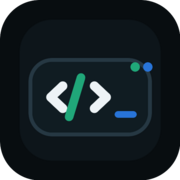
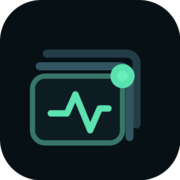
feat: unify brand and surface agent outputs

diff --git a/server/src/index.ts b/server/src/index.ts
@@ -428,7 +428,7 @@ async function lightAppState() {
   const geminiStatus = cachedProviderStatusSnapshot('gemini', geminiStatusCache.value);
   const claudeStatus = cachedProviderStatusSnapshot('claude', claudeStatusCache.value);
   const antigravityStatus = cachedProviderStatusSnapshot('antigravity', antigravityStatusCache.value);
-  const providerStatuses = await unifiedProviderStatuses(false);
+  const providerStatuses = cachedUnifiedProviderStatusesSnapshot();
   return {
     authed:true,
     authenticated:true,
@@ -681,7 +681,7 @@ app.get('/api/settings', { preHandler: ensureAuth }, async (req:any) => {
     light ? Promise.resolve(cachedProviderStatusSnapshot('antigravity', antigravityStatusCache.value)) : cachedAntigravityStatus(force),
     light ? Promise.resolve(cachedProviderStatusSnapshot('gemini', geminiStatusCache.value)) : cachedGeminiStatus(force),
     light || !USE_AGENT_RUNTIME ? Promise.resolve({ error: light ? 'not refreshed' : 'persistent runtime disabled' }) : runtime.geminiStatus().catch((e:any)=>({ error:e?.message || String(e) })),
-    unifiedProviderStatuses(force && !light),
+    light ? Promise.resolve(cachedUnifiedProviderStatusesSnapshot()) : unifiedProviderStatuses(force),
     syncAntigravityProfilesFromDisk().catch(()=>{}),
   ]);
   return { settings, profiles, pendingProfiles, activeProfile, claudeProfiles, activeClaudeProfile, geminiProfiles, geminiPendingProfiles, activeGeminiProfile, antigravityProfiles, activeAntigravityProfile, codex: codexStatus, claude: claudeStatus, gemini:{...geminiStatus,runtime:geminiRuntime}, antigravity: antigravityStatus, providers: providerStatusArray(providerStatuses), providerStatus: providerStatuses, providerDefinitions: PROVIDER_ORDER.map(id => PROVIDER_DEFINITIONS[id]), providerInstallers:providerInstallerSummaries(), providerInstallJobs:providerInstallJobSummaries() };
@@ -1227,7 +1227,7 @@ app.get('/api/projects', { preHandler: ensureAuth }, async (req:any) => ({ roots
 app.get('/api/sessions', { preHandler: ensureAuth }, async (req:any) => ({ sessions: await listIndexedThreads(req.query?.archived === '1') }));
 app.get('/api/dashboard', { preHandler: ensureAuth }, async (req:any) => {
   const archived = req.query?.archived === '1';
-  const [sessions,control] = await Promise.all([listIndexedThreads(archived), lightAppState()]);
+  const [sessions,control,artifacts] = await Promise.all([listIndexedThreads(archived), lightAppState(), dashboardArtifacts()]);
   const now = Date.now();
   const dayMs = 24 * 60 * 60 * 1000;
   const startOfToday = new Date(new Date(now).toDateString()).getTime();
@@ -1251,6 +1251,7 @@ app.get('/api/dashboard', { preHandler: ensureAuth }, async (req:any) => {
     generatedAt:now,
     archived,
     control,
+    artifacts,
     metrics:{
       total:sessions.length,
       running:sessions.filter(session => runningStates.has(String(session.status))).length,
@@ -1263,6 +1264,16 @@ app.get('/api/dashboard', { preHandler: ensureAuth }, async (req:any) => {
     sessions,
   };
 });
+async function dashboardArtifacts(){
+  const sql='SELECT id,session_id,name,mime,size,created_at,modified_at FROM artifacts ORDER BY COALESCE(modified_at,created_at) DESC LIMIT 12';
+  const [webRows,runtimeRows,webCount,runtimeCount]=await Promise.all([db.all(sql).catch(()=>[]),runtimeDb.all(sql).catch(()=>[]),db.get('SELECT COUNT(*) count FROM artifacts').catch(()=>null),runtimeDb.get('SELECT COUNT(*) count FROM artifacts').catch(()=>null)]);
+  const byId=new Map<string,any>();
+  for(const row of [...runtimeRows,...webRows]) if(!byId.has(String(row.id))) byId.set(String(row.id),row);
+  const items=[...byId.values()].sort((a,b)=>Number(b.modified_at||b.created_at||0)-Number(a.modified_at||a.created_at||0)).slice(0,8).map(row=>({
+    id:String(row.id),sessionId:String(row.session_id),name:String(row.name),type:String(row.mime||'application/octet-stream'),size:Number(row.size||0),updatedAt:Number(row.modified_at||row.created_at||0),url:`/api/sessions/${encodeURIComponent(String(row.session_id))}/files/${encodeURIComponent(String(row.id))}`,
+  }));
+  return { total:Math.max(Number(webCount?.count||0),Number(runtimeCount?.count||0),byId.size), items };
+}
 app.post('/api/sessions', { preHandler: ensureAuth }, async (req:any, reply) => {
   let projectDir:string;
   try { projectDir = await validateProject(req.body?.projectDir || DEFAULT_WORKSPACE_DIR, roots); }
@@ -1984,6 +1995,26 @@ function codexQuotaLogFields(rateLimits:any) {
 }
 function providerDisplayName(provider:AgentProviderId) {
   return registryProviderDisplayName(provider);
+}
+function cachedUnifiedProviderStatusesSnapshot():Record<AgentProviderId, ProviderStatus> {
+  if (unifiedProviderStatusCache.value) return unifiedProviderStatusCache.value;
+  const snapshots:Record<AgentProviderId, any> = {
+    codex:cachedCodexStatusSnapshot(),
+    claude:cachedProviderStatusSnapshot('claude', claudeStatusCache.value),
+    gemini:cachedProviderStatusSnapshot('gemini', geminiStatusCache.value),
+    antigravity:cachedProviderStatusSnapshot('antigravity', antigravityStatusCache.value),
+  };
+  return Object.fromEntries(PROVIDER_ORDER.map(provider => [provider, providerStatus({
+    provider,
+    displayName:providerDisplayName(provider),
+    cliStatus:snapshots[provider],
+    auth:'checking',
+    canCreateSession:false,
+    canContinueSession:false,
+    capabilities:providerCapabilitiesFor(provider),
+    reasonCode:'status_refreshing',
+    message:'账号状态正在后台刷新',
+  })])) as Record<AgentProviderId, ProviderStatus>;
 }
 function isGeminiPersonalUnsupportedProfile(profile:any) {
   return String(profile?.authType || profile?.auth_type || profile?.login?.authType || '').toLowerCase() === 'oauth-personal';

diff --git a/client/src/main.tsx b/client/src/main.tsx
@@ -127,6 +127,7 @@ function Icon({name,size=18}:{name:IconName;size?:number}){
   };
   return <svg className="uiIcon" width={size} height={size} viewBox="0 0 24 24" fill="none" stroke="currentColor" strokeWidth="1.8" strokeLinecap="round" strokeLinejoin="round" aria-hidden="true">{paths[name]}</svg>;
 }
+function Brand({compact=false}:{compact?:boolean}){ return <div className={`brandLockup ${compact?'compact':''}`}><img className="brandMark" src="/icons/agentdeck.svg" alt=""/><span><strong>{APP_NAME}</strong>{!compact&&<small>Persistent agent workspace</small>}</span></div>; }
 
 function App(){
   const [authed,setAuthed]=useState(false);
@@ -144,7 +145,7 @@ function App(){
 function Login({onLogin}:{onLogin:()=>void}){
   const toast=useToast(); const [password,setPassword]=useState(''); const [busy,setBusy]=useState(false);
   async function submit(e:any){ e.preventDefault(); setBusy(true); try{ await api('/api/login',{method:'POST',body:JSON.stringify({username:'admin',password})}); haptic(); onLogin(); } catch { toast('error','登录失败'); } finally { setBusy(false); } }
-  return <main className="login"><form onSubmit={submit} className="loginPanel"><div className="mark">AD</div><h1>{APP_NAME}</h1><input autoFocus type="password" placeholder="管理员密码" value={password} onChange={e=>setPassword(e.target.value)}/><button className="btn primary" disabled={busy}>{busy?'登录中':'登录'}</button></form></main>;
+  return <main className="login"><form onSubmit={submit} className="loginPanel"><img className="loginMark" src="/icons/agentdeck.svg" alt=""/><div><h1>{APP_NAME}</h1><p>回到你的 Agent 工作区</p></div><input autoFocus type="password" placeholder="管理员密码" aria-label="管理员密码" value={password} onChange={e=>setPassword(e.target.value)}/><button className="btn primary" disabled={busy}>{busy?'登录中':'登录并进入工作区'}</button></form></main>;
 }
 
 function DiagnosticsView(){
@@ -202,7 +203,7 @@ function Home(){
   async function showQuota(){ setQuotaOpen(true); try{ setQuota(await api('/api/quota?provider='+encodeURIComponent(activeProvider))); } catch(e:any){ setQuota({errors:{rateLimits:shortError(e)}}); } }
   async function loadSettings(){ setSettingsLoading(true); setSettingsError(''); try{ setSettings(await api('/api/settings?light=1')); } catch(e:any){ const msg=shortError(e); setSettingsError(msg); toast('error','设置读取失败：'+msg); } finally { setSettingsLoading(false); } }
   const [settingsInitialPage,setSettingsInitialPage]=useState<'main'|'agent'>('main');
-  function showSettings(page:'main'|'agent'='main'){ setSettingsInitialPage(page); setSettingsOpen(true); loadSettings(); }
+  function showSettings(page:'main'|'agent'='main'){ setSettingsInitialPage(page); setSettings((current:any)=>current||{settings:{activeProvider:status?.activeProvider||'codex',defaultMode:status?.defaultMode||'yolo',defaultModel:status?.defaultModel,defaultModels:status?.defaultModels||{}},providers:status?.providers||[],providerStatus:status?.providerStatus||{},codex:status?.codex,claude:status?.claude,gemini:status?.gemini,antigravity:status?.antigravity,activeProfile:status?.activeProfile,activeClaudeProfile:status?.activeClaudeProfile,activeGeminiProfile:status?.activeGeminiProfile,activeAntigravityProfile:status?.activeAntigravityProfile,profiles:[],claudeProfiles:[],geminiProfiles:[],geminiPendingProfiles:[],antigravityProfiles:[]}); setSettingsOpen(true); loadSettings(); }
   async function switchProvider(provider:ProviderId){ if(provider===activeProvider) return; try{ await api('/api/settings',{method:'PATCH',body:JSON.stringify({activeProvider:provider})}); setStatus(current=>current?{...current,activeProvider:provider}:current); haptic(); toast('success',`已切换到 ${providerLabel(provider)}`); await refreshSessions(); } catch(e:any){ toast('error','切换失败：'+shortError(e)); } }
   const activeProvider=status?.activeProvider || 'codex';
   const activeProviderStatus = (status?.providers||[]).find(p=>p.id===activeProvider) || (activeProvider === 'gemini' ? status?.gemini : activeProvider === 'antigravity' ? status?.antigravity : status?.codex);
@@ -210,7 +211,7 @@ function Home(){
   const filtered=sessions.filter(s=>sessionProvider(s)===activeProvider).filter(s=>(s.title+' '+s.project_dir+' '+s.status).toLowerCase().includes(query.toLowerCase()));
   return <main className="appShell homeShell">
     <header className="homeTop">
-      <div><strong>{APP_NAME}</strong><span>你的 AI 工程工作台</span></div>
+      <Brand/>
       <div className="iconRow"><button className="commandTrigger" aria-label="打开命令中心" onClick={()=>setCommandOpen(true)}><Icon name="search" size={16}/><span>命令中心</span><kbd>⌘ K</kbd></button><button className="iconBtn" aria-label="诊断" title="运行诊断" onClick={()=>{location.hash='#/diagnostics'}}><Icon name="pulse"/></button><button className="iconBtn" aria-label="设置" title="设置" onClick={()=>showSettings()}><Icon name="settings"/></button><button className="iconBtn" aria-label="查看额度" title="查看额度" onClick={showQuota}><Icon name="quota"/></button><button className="iconBtn" aria-label="刷新" title="刷新状态" disabled={statusRefreshing||appStateLoading} onClick={()=>refresh(true)}><Icon name="refresh"/></button></div>
     </header>
     {!online&&<InlineNotice tone="error" text="网络已断开，当前页面仍可浏览，恢复后会自动重新连接。"/>}
@@ -224,6 +225,7 @@ function Home(){
       <button className="taskButton secondary" onClick={openProjectPicker}><i><Icon name="folder" size={20}/></i><span>Open project</span><b>{projectsLoading?'正在扫描…':projects.length ? `从 ${projects.length} 个项目中选择` : '选择一个代码仓库'}</b><small>扫描工作区与 Git 仓库</small><Icon name="arrow"/></button>
     </section>
     {dashboard&&<MissionControl dashboard={dashboard}/>}
+    {dashboard&&dashboard.artifacts.items.length>0&&<OutputShelf dashboard={dashboard}/>}
     <div className="sectionHeading"><div><span>WORKSPACE</span><h2>{archived?'归档会话':'最近会话'}</h2></div><b>{filtered.length}</b></div>
     <section className="sessionTools">
       <div className="seg"><button className={!archived?'active':''} onClick={()=>setArchived(false)}>当前</button><button className={archived?'active':''} onClick={()=>setArchived(true)}>归档</button></div>
@@ -260,6 +262,7 @@ function MissionControl({dashboard}:{dashboard:Dashboard}){
   const metrics:[string,number,string][]=[['运行中',dashboard.metrics.running,'live'],['等待处理',dashboard.metrics.waiting,'wait'],['今日活动',dashboard.metrics.updatedToday,'today'],['活跃项目',dashboard.metrics.projects,'projects']];
   return <section className="missionControl"><div className="missionMetrics">{metrics.map(([label,value,tone])=><div className={`missionMetric ${tone}`} key={label}><span>{label}</span><b>{value}</b></div>)}</div><div className="activityChart"><header><div><span>ACTIVITY</span><b>最近 7 天</b></div><small>{dashboard.metrics.total} 个会话</small></header><div className="activityBars">{dashboard.activity.map(day=><i key={day.date} style={{height:`${Math.max(8,day.count/max*100)}%`}} title={`${day.date} · ${day.count}`}/>)}</div></div></section>;
 }
+function OutputShelf({dashboard}:{dashboard:Dashboard}){ return <section className="outputShelf"><header><div><span>OUTPUTS</span><b>最近产物</b></div><small>{dashboard.artifacts.total} 个文件</small></header><div>{dashboard.artifacts.items.slice(0,4).map(file=><a href={file.url} target="_blank" rel="noreferrer" key={file.id}><i>{attachmentIconLabel({name:file.name,type:file.type})}</i><span><b>{file.name}</b><small>{formatSize(file.size)} · {formatTime(file.updatedAt)}</small></span><Icon name="arrow" size={15}/></a>)}</div></section>; }
 
 function AgentDock({status,activeProvider,serverLabel,onSwitch,onManage}:{status:Status|null;activeProvider:ProviderId;serverLabel:string;onSwitch:(provider:ProviderId)=>void;onManage:()=>void}){
   const statuses=status?.providerStatus||{} as Record<ProviderId,ProviderStatus>;
@@ -804,10 +807,10 @@ function SettingsSheet({data,loading,error,initialPage,onRetry,onChanged,onClose
     {loading&&!localData&&<LoadingRows count={4}/>}
     {localData&&<div className="settingsGrid">
       {page==='main'&&<div className="settingsNav">
-        <button onClick={()=>setPage('agent')}><span><b>Agent</b><small>{providerSubtitle(activeProviderStatus)}</small></span><i>›</i></button>
-        <button onClick={()=>setPage('mode')}><span><b>沙盒</b><small>{modeLabel(localData?.settings?.defaultMode)}</small></span><i>›</i></button>
-        <button onClick={()=>setPage('model')}><span><b>模型</b><small>{activeProviderStatus?.canListModels ? modelLabel(currentModel) : providerAuthLabel(activeProviderStatus)}</small></span><i>›</i></button>
-        <button onClick={()=>setPage('account')}><span><b>当前账户</b><small>{accountSubtitle(activeProvider, activeProfile, activeGeminiProfile, activeAntigravityProfile, activeProviderStatus)}</small></span><i>›</i></button>
+        <button aria-label="Agent" disabled={loading} onClick={()=>setPage('agent')}><span><b>Agent</b><small>{loading?'正在同步账号状态':providerSubtitle(activeProviderStatus)}</small></span><i>›</i></button>
+        <button disabled={loading} onClick={()=>setPage('mode')}><span><b>沙盒</b><small>{modeLabel(localData?.settings?.defaultMode)}</small></span><i>›</i></button>
+        <button disabled={loading} onClick={()=>setPage('model')}><span><b>模型</b><small>{activeProviderStatus?.canListModels ? modelLabel(currentModel) : providerAuthLabel(activeProviderStatus)}</small></span><i>›</i></button>
+        <button disabled={loading} onClick={()=>setPage('account')}><span><b>当前账户</b><small>{accountSubtitle(activeProvider, activeProfile, activeGeminiProfile, activeAntigravityProfile, activeProviderStatus)}</small></span><i>›</i></button>
       </div>}
       {page==='agent'&&<section className="agentProviderPage"><div className="providerChoices">
         {PROVIDER_ORDER.map(provider=><button key={provider} className={activeProvider===provider?'active':''} aria-pressed={activeProvider===provider} onClick={()=>setActiveProvider(provider)}><span><b>{providerLabel(provider)}</b><small>{providerChoiceDetail(providerStatusById[provider])}</small>{providerChoiceNote(providerStatusById[provider])&&<em>{providerChoiceNote(providerStatusById[provider])}</em>}</span><i/></button>)}

diff --git a/client/src/styles.css b/client/src/styles.css
@@ -142,5 +142,10 @@ input:hover,textarea:hover{border-color:#34505d}input:focus,textarea:focus{backg
 .composer{padding:0 18px calc(env(safe-area-inset-bottom) + 16px);border:0;background:linear-gradient(0deg,#061014 62%,transparent);backdrop-filter:none}.composerSurface{width:min(850px,100%);margin:0 auto;overflow:hidden;border:1px solid #2b4651;border-radius:17px;background:linear-gradient(145deg,rgba(16,32,39,.98),rgba(8,20,25,.98));box-shadow:0 22px 70px rgba(0,0,0,.45),0 0 0 1px rgba(255,255,255,.018)}.composerSurface:focus-within{border-color:#39775f}.composeRow{grid-template-columns:42px minmax(0,1fr) 42px 70px;padding:8px 8px 3px;gap:6px}.composer textarea{min-height:48px;height:48px;padding:12px 10px;border:0;background:transparent;box-shadow:none;font-size:14px}.composer .iconBtn{border:0;background:transparent;box-shadow:none}.composer .stopButton:not(:disabled){color:#e88b8f}.composer .sendBtn{min-height:40px;align-self:center}.composerMeta{display:flex;justify-content:space-between;gap:12px;padding:2px 14px 9px;color:#4d6771;font-size:8px}.attachTray{padding:8px 8px 0}.jumpBottom{right:max(20px,calc((100vw - 820px)/2));bottom:calc(env(safe-area-inset-bottom) + 116px);border-radius:999px}
 @media(max-width:700px){.chatTop{grid-template-columns:42px minmax(0,1fr) 42px 42px;min-height:64px;padding:5px 0}.chatPresence{grid-column:2;grid-row:2;display:flex;justify-self:start;padding:0;border:0;background:transparent}.chatPresence>small{display:none}.chatPresence>span{font-size:9px}.chatIdentity{grid-column:2;grid-row:1}.chatTop>.iconBtn:nth-last-child(2){grid-column:3;grid-row:1/3}.chatTop>.iconBtn:last-child{grid-column:4;grid-row:1/3}.chatBack{grid-row:1/3}.chatEyebrow{font-size:7px}.chatTitle{margin-top:1px}.chatTitle b{font-size:14px}.chatTitle span{display:none}.feed{padding:18px 0 140px;gap:11px;background-image:none}.bubble{max-width:95%;border-radius:14px}.bubble.user{max-width:90%}.composer{padding:0 0 calc(env(safe-area-inset-bottom) + 7px)}.composerSurface{border-radius:15px}.composeRow{grid-template-columns:40px minmax(0,1fr) 40px 60px;padding:5px}.composerMeta{padding:0 10px 7px}.composerMeta span:last-child{display:none}}
 
+/* Unified brand system */
+.homeTop>.brandLockup{padding:0;display:flex;grid-template:none;align-items:center;gap:11px}.homeTop>.brandLockup:before,.homeTop>div:first-child:before{content:none}.brandLockup{display:flex;align-items:center;gap:11px;min-width:0}.brandMark{width:42px;height:42px;display:block;flex:0 0 auto;border-radius:11px;box-shadow:0 10px 34px rgba(0,0,0,.32)}.brandLockup>span{display:grid;gap:1px;min-width:0}.brandLockup strong{font-size:20px;letter-spacing:-.03em}.brandLockup small{overflow:hidden;text-overflow:ellipsis;white-space:nowrap;color:#667f89;font-size:9px;letter-spacing:.04em}.brandLockup.compact small{display:none}.loginMark{width:64px;height:64px;border-radius:15px;box-shadow:0 16px 44px rgba(0,0,0,.36)}.loginPanel>div{display:grid;gap:3px}.loginPanel p{margin:0;color:#708994;font-size:12px}.loginPanel .primary{min-height:48px}.loginPanel>.mark{display:none}
+@media(max-width:700px){.brandMark{width:36px;height:36px;border-radius:9px}.brandLockup{gap:8px}.brandLockup strong{font-size:18px}.brandLockup small{max-width:150px;font-size:8px}.homeTop>.brandLockup{padding:0}}
+.outputShelf{display:grid;gap:11px;margin:-30px 0 48px}.outputShelf>header{display:flex;align-items:end;justify-content:space-between;padding:0 2px}.outputShelf>header div{display:grid}.outputShelf>header span{font:8px ui-monospace,SFMono-Regular,Menlo,monospace;letter-spacing:.15em;color:#59727d}.outputShelf>header b{font-size:16px}.outputShelf>header small{color:#5e7680;font-size:9px}.outputShelf>div{display:grid;grid-template-columns:repeat(4,minmax(0,1fr));gap:8px}.outputShelf a{display:grid;grid-template-columns:36px minmax(0,1fr) auto;align-items:center;gap:9px;min-height:62px;padding:9px 10px;border:1px solid #213943;border-radius:12px;background:rgba(9,21,26,.68);text-decoration:none;transition:background .16s ease,border-color .16s ease,translate .16s ease}.outputShelf a:hover{translate:0 -2px;border-color:#376252;background:#10272b}.outputShelf a>i{width:34px;height:34px;display:grid;place-items:center;border-radius:9px;background:#132b30;color:#75dcb6;font-style:normal;font-size:8px;font-weight:900}.outputShelf a>span{display:grid;min-width:0}.outputShelf a b,.outputShelf a small{overflow:hidden;text-overflow:ellipsis;white-space:nowrap}.outputShelf a b{font-size:11px}.outputShelf a small{color:#5e7781;font-size:8px}.outputShelf a>.uiIcon{color:#4e6873}@media(max-width:800px){.outputShelf>div{grid-template-columns:repeat(2,minmax(0,1fr))}}@media(max-width:520px){.outputShelf{margin-top:-20px}.outputShelf>div{display:flex;overflow-x:auto;scroll-snap-type:x mandatory;padding-bottom:4px}.outputShelf a{min-width:230px;scroll-snap-align:start}}
+
 @media (max-width:800px){.homeHero{grid-template-columns:1fr;gap:28px;min-height:0;padding:32px 0 28px}.heroCopy h1{font-size:clamp(36px,10vw,52px)}.homeHero .statusStrip{grid-template-columns:repeat(3,minmax(0,1fr));width:100%;gap:6px;background:transparent;margin:0}.homeHero .statusStrip div,.homeHero .statusStrip .statusRowButton{display:grid;grid-template-columns:1fr;grid-template-rows:auto auto;gap:5px;min-height:74px;padding:11px;border:1px solid var(--line-soft);border-radius:12px;background:rgba(10,22,27,.78)}.homeHero .statusStrip b{text-align:left;font-size:12px}.homeHero .statusStrip small{display:none}.quickStart{grid-template-columns:1fr 1fr}.quickStart .taskButton{grid-template-columns:38px minmax(0,1fr);min-height:118px;padding:14px;column-gap:10px}.quickStart .taskButton>i{width:36px;height:36px}.quickStart .taskButton>.uiIcon{display:none}.quickStart .taskButton>b{font-size:15px}.quickStart .taskButton>small{grid-column:2}.sessionArchive{opacity:1}}
 @media (max-width:520px){.homeTop>div:first-child span{max-width:150px}.homeHero{padding-top:27px}.heroCopy h1{font-size:38px;margin-top:14px}.heroCopy p{font-size:13px}.heroMeta{gap:11px;flex-wrap:wrap}.homeHero .statusStrip{gap:4px}.homeHero .statusStrip div,.homeHero .statusStrip .statusRowButton{padding:9px 8px;min-width:0}.homeHero .statusStrip span{font-size:8px}.homeHero .statusStrip b{font-size:11px;overflow:hidden;text-overflow:ellipsis}.quickStart{gap:7px;margin-bottom:40px}.quickStart .taskButton{display:flex;flex-direction:column;align-items:flex-start;gap:7px;min-height:145px;padding:13px}.quickStart .taskButton>i{margin-bottom:2px}.quickStart .taskButton>span{font-size:8px}.quickStart .taskButton>b{white-space:normal;line-height:1.3}.quickStart .taskButton>small{line-height:1.35}.sectionHeading h2{font-size:19px}.sessionTools{grid-template-columns:auto minmax(0,1fr)}.sessionRow{grid-template-columns:36px minmax(0,1fr) 36px;gap:9px;padding-left:2px}.sessionGlyph{width:34px;height:34px;min-height:34px}.sessionMain small{display:none}.sessionMain span{display:block}.sessionArchive{width:34px}}

diff --git a/client/src/api/types.ts b/client/src/api/types.ts
@@ -10,7 +10,8 @@ export type Status = { authed:boolean; roots:string[]; mode:string; defaultMode:
 export type ActiveTurn = {turnId:string|null; status:string; startedAt?:number|null; waitingKind?:'approval'|'input'|'plan'|null};
 export type Session = { id:string; codex_thread_id:string; provider_id?:ProviderId; providerId?:ProviderId; project_dir:string; title:string; status:string; activeTurn?:ActiveTurn|null; permission_mode?:string; approval_policy?:string; sandbox_mode?:string; model?:string; archived?:number; created_at?:number; updated_at?:number; last_sequence?:number };
 export type Project = { name:string; path:string; branch:string|null; updatedAt:number };
-export type Dashboard = { generatedAt:number; archived:boolean; control:Status; metrics:{total:number;running:number;waiting:number;updatedToday:number;projects:number}; activity:{date:string;count:number}[]; projects:{path:string;name:string;sessions:number;lastActiveAt:number}[]; sessions:Session[] };
+export type DashboardArtifact = {id:string;sessionId:string;name:string;type:string;size:number;updatedAt:number;url:string};
+export type Dashboard = { generatedAt:number; archived:boolean; control:Status; artifacts:{total:number;items:DashboardArtifact[]}; metrics:{total:number;running:number;waiting:number;updatedToday:number;projects:number}; activity:{date:string;count:number}[]; projects:{path:string;name:string;sessions:number;lastActiveAt:number}[]; sessions:Session[] };
 export type ModelOption = { id:string; model:string; actualModel?:string; displayName:string; description?:string; hidden?:boolean; isDefault?:boolean; inputModalities?:string[]; upgrade?:string|null };
 export type Attachment = { id:string; name:string; type:string; size:number; url:string; previewUrl?:string; uploading?:boolean; error?:string; operation?:'created'|'modified'|string; relativePath?:string|null };
 export type DisplayEvent = { key:string; role:'user'|'assistant'|'system'|'command'|'file'|'reasoning'|'image'; title?:string; text:string; meta?:string; open?:boolean; clientMessageId?:string; messageId?:string; attachments?:Attachment[]; images?:Attachment[]; files?:Attachment[] };

diff --git a/client/index.html b/client/index.html
@@ -1,1 +1,1 @@
-<!doctype html><html lang="zh-CN"><head><meta charset="UTF-8"/><meta name="viewport" content="width=device-width,initial-scale=1,viewport-fit=cover"/><meta name="theme-color" content="#060b10"/><meta name="description" content="AgentDeck — persistent AI engineering workspace"/><link rel="manifest" href="/manifest.webmanifest"/><link rel="apple-touch-icon" href="/icons/icon-192.png"/><title>Agent Deck</title></head><body><div id="root"></div><script type="module" src="/src/main.tsx"></script></body></html>
+<!doctype html><html lang="zh-CN"><head><meta charset="UTF-8"/><meta name="viewport" content="width=device-width,initial-scale=1,viewport-fit=cover"/><meta name="theme-color" content="#071015"/><meta name="description" content="AgentDeck — persistent AI engineering workspace"/><link rel="manifest" href="/manifest.webmanifest"/><link rel="icon" href="/icons/agentdeck.svg" type="image/svg+xml"/><link rel="apple-touch-icon" href="/apple-touch-icon.png"/><title>Agent Deck</title></head><body><div id="root"></div><script type="module" src="/src/main.tsx"></script></body></html>

diff --git a/client/public/sw.js b/client/public/sw.js
@@ -1,4 +1,4 @@
-const CACHE='agentdeck-v37';
+const CACHE='agentdeck-v38';
 self.addEventListener('install',e=>{self.skipWaiting();e.waitUntil(caches.open(CACHE).then(c=>c.addAll(['/','/manifest.webmanifest'])));});
 self.addEventListener('activate',e=>{e.waitUntil(caches.keys().then(keys=>Promise.all(keys.filter(k=>k!==CACHE).map(k=>caches.delete(k)))).then(()=>self.clients.claim()));});
 self.addEventListener('fetch',e=>{